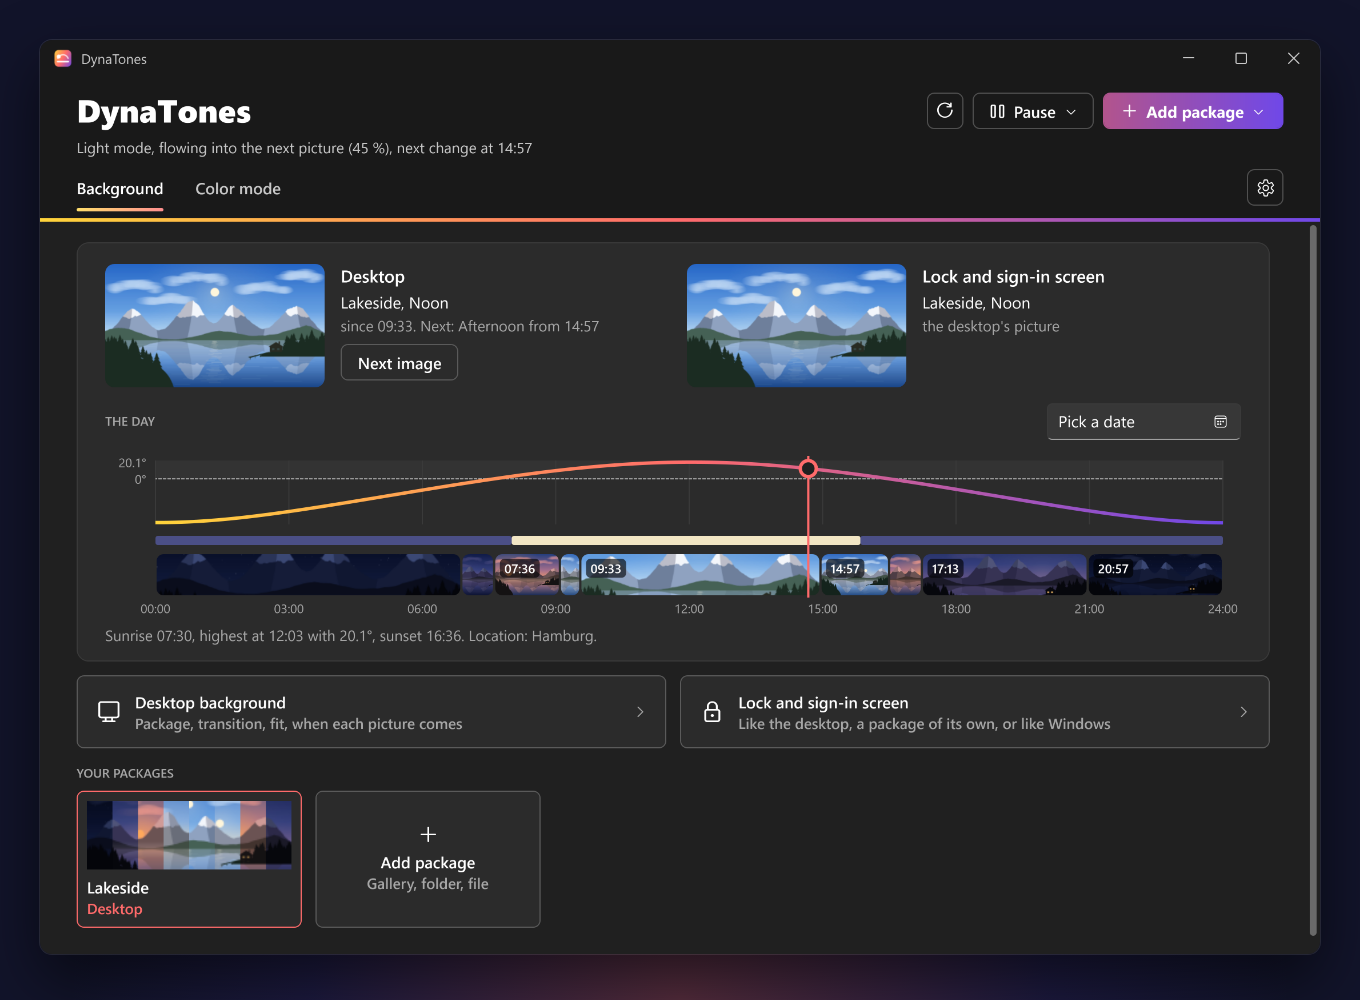
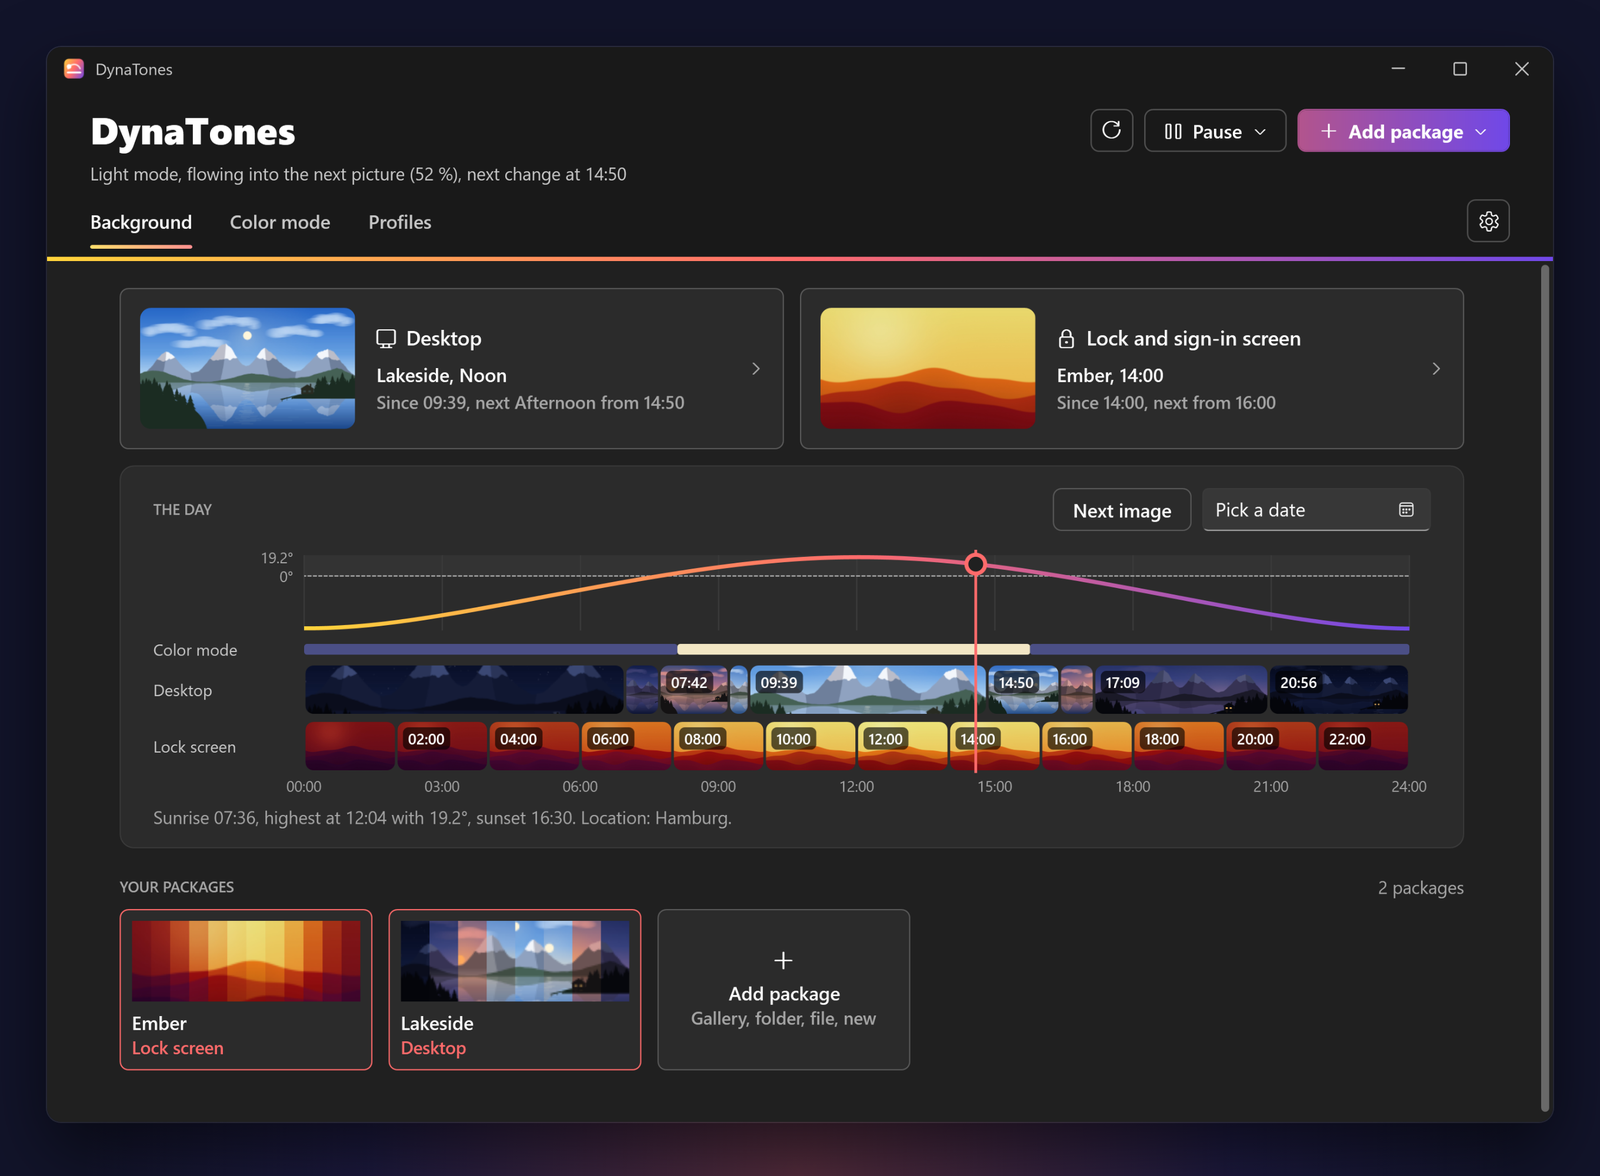
DynaTones 0.4: new pictures, captions and the film's length

diff --git a/de/dynatones/index.html b/de/dynatones/index.html
@@ -42,12 +42,12 @@
 <p style="margin: 0; font-size: 14px; color: #cfcfcf">Version 0.4.0, 57 MB. Kostenlos, Quellcode auf GitHub.</p>
 </div>
 <a class="ew-play" href="https://github.com/esteemworks/DynaTones#see-it-in-action" style="flex: 1 1 520px; min-width: 0; position: relative; display: block; border-radius: 10px; overflow: hidden; border: 1px solid rgba(255,255,255,.14); text-decoration: none">
-<img src="../../assets/img/dynatones-dark.png" alt="" width="1360" height="1000" style="display: block; width: 100%; height: auto">
+<img src="../../assets/img/dynatones-dark.png" alt="" width="1600" height="1176" style="display: block; width: 100%; height: auto">
 <span style="position: absolute; inset: 0; background: rgba(0,0,0,.42); display: flex; flex-direction: column; align-items: center; justify-content: center; gap: 14px">
 <span class="ew-play-dot" style="width: 76px; height: 76px; border-radius: 50%; background: linear-gradient(135deg, #ffd43b, #ff6b6b, #7048e8); display: flex; align-items: center; justify-content: center; transition: transform .15s">
 <svg aria-hidden="true" width="30" height="30" viewBox="0 0 24 24" fill="#ffffff"><path d="M8 5.5v13l11-6.5z"></path></svg>
 </span>
-<span style="font-size: 16px; font-weight: 600; color: #ffffff">Film ansehen, 1:31</span>
+<span style="font-size: 16px; font-weight: 600; color: #ffffff">Film ansehen, 1:45</span>
 </span>
 </a>
 </section>
@@ -87,11 +87,11 @@
 
 <section style="max-width: 1200px; margin: 0 auto; padding: 48px 24px 88px; display: grid; grid-template-columns: repeat(auto-fit, minmax(min(100%, 480px), 1fr)); gap: 24px">
 <figure style="margin: 0; display: flex; flex-direction: column; gap: 10px">
-<img src="../../assets/img/dynatones-light.png" alt="DynaTones, Heute im hellen Farbmodus" width="1360" height="1000" style="display: block; width: 100%; height: auto; border-radius: 10px; border: 1px solid var(--Line)">
-<figcaption style="font-size: 14px; color: var(--Text4)">Heute, im hellen Farbmodus</figcaption>
+<img src="../../assets/img/dynatones-light.png" alt="DynaTones, der Tab Hintergrund im hellen Farbmodus" width="1600" height="1176" style="display: block; width: 100%; height: auto; border-radius: 10px; border: 1px solid var(--Line)">
+<figcaption style="font-size: 14px; color: var(--Text4)">Hintergrund, im hellen Farbmodus</figcaption>
 </figure>
 <figure style="margin: 0; display: flex; flex-direction: column; gap: 10px">
-<img src="../../assets/img/dynatones-dark.png" alt="DynaTones, Heute im dunklen Farbmodus" width="1360" height="1000" style="display: block; width: 100%; height: auto; border-radius: 10px; border: 1px solid var(--Line)">
+<img src="../../assets/img/dynatones-dark.png" alt="DynaTones, der Tab Hintergrund im dunklen Farbmodus" width="1600" height="1176" style="display: block; width: 100%; height: auto; border-radius: 10px; border: 1px solid var(--Line)">
 <figcaption style="font-size: 14px; color: var(--Text4)">Derselbe Tag im dunklen Farbmodus</figcaption>
 </figure>
 </section>

diff --git a/dynatones/index.html b/dynatones/index.html
@@ -42,12 +42,12 @@
 <p style="margin: 0; font-size: 14px; color: #cfcfcf">Version 0.4.0, 57 MB. Free, source code on GitHub.</p>
 </div>
 <a class="ew-play" href="https://github.com/esteemworks/DynaTones#see-it-in-action" style="flex: 1 1 520px; min-width: 0; position: relative; display: block; border-radius: 10px; overflow: hidden; border: 1px solid rgba(255,255,255,.14); text-decoration: none">
-<img src="../assets/img/dynatones-dark.png" alt="" width="1360" height="1000" style="display: block; width: 100%; height: auto">
+<img src="../assets/img/dynatones-dark.png" alt="" width="1600" height="1176" style="display: block; width: 100%; height: auto">
 <span style="position: absolute; inset: 0; background: rgba(0,0,0,.42); display: flex; flex-direction: column; align-items: center; justify-content: center; gap: 14px">
 <span class="ew-play-dot" style="width: 76px; height: 76px; border-radius: 50%; background: linear-gradient(135deg, #ffd43b, #ff6b6b, #7048e8); display: flex; align-items: center; justify-content: center; transition: transform .15s">
 <svg aria-hidden="true" width="30" height="30" viewBox="0 0 24 24" fill="#ffffff"><path d="M8 5.5v13l11-6.5z"></path></svg>
 </span>
-<span style="font-size: 16px; font-weight: 600; color: #ffffff">Watch the film, 1:31</span>
+<span style="font-size: 16px; font-weight: 600; color: #ffffff">Watch the film, 1:45</span>
 </span>
 </a>
 </section>
@@ -87,11 +87,11 @@
 
 <section style="max-width: 1200px; margin: 0 auto; padding: 48px 24px 88px; display: grid; grid-template-columns: repeat(auto-fit, minmax(min(100%, 480px), 1fr)); gap: 24px">
 <figure style="margin: 0; display: flex; flex-direction: column; gap: 10px">
-<img src="../assets/img/dynatones-light.png" alt="DynaTones, Today in light color mode" width="1360" height="1000" style="display: block; width: 100%; height: auto; border-radius: 10px; border: 1px solid var(--Line)">
-<figcaption style="font-size: 14px; color: var(--Text4)">Today, in light color mode</figcaption>
+<img src="../assets/img/dynatones-light.png" alt="DynaTones, the Background tab in light color mode" width="1600" height="1176" style="display: block; width: 100%; height: auto; border-radius: 10px; border: 1px solid var(--Line)">
+<figcaption style="font-size: 14px; color: var(--Text4)">Background, in light color mode</figcaption>
 </figure>
 <figure style="margin: 0; display: flex; flex-direction: column; gap: 10px">
-<img src="../assets/img/dynatones-dark.png" alt="DynaTones, Today in dark color mode" width="1360" height="1000" style="display: block; width: 100%; height: auto; border-radius: 10px; border: 1px solid var(--Line)">
+<img src="../assets/img/dynatones-dark.png" alt="DynaTones, the Background tab in dark color mode" width="1600" height="1176" style="display: block; width: 100%; height: auto; border-radius: 10px; border: 1px solid var(--Line)">
 <figcaption style="font-size: 14px; color: var(--Text4)">The same day, in dark color mode</figcaption>
 </figure>
 </section>

diff --git a/de/index.html b/de/index.html
@@ -37,7 +37,7 @@
 </div>
 </div>
 <div style="flex: 1 1 520px; min-width: 0; position: relative; padding-bottom: 40px">
-<img src="../assets/img/dynatones-dark.png" alt="DynaTones, die Tagesansicht mit dem Bild von jetzt und dem nächsten" width="1360" height="1000" style="display: block; width: 80%; height: auto; margin-left: auto; border-radius: 10px; border: 1px solid rgba(255,255,255,.14)">
+<img src="../assets/img/dynatones-dark.png" alt="DynaTones, Desktop und Sperrbildschirm jetzt und die Sonne über den Tag" width="1600" height="1176" style="display: block; width: 80%; height: auto; margin-left: auto; border-radius: 10px; border: 1px solid rgba(255,255,255,.14)">
 <img src="../assets/img/startqueue-dark.png" alt="StartQueue, die Startreihenfolge mit Profilen" width="1360" height="900" style="position: absolute; left: 0; bottom: 0; width: 66%; height: auto; border-radius: 10px; border: 1px solid rgba(255,255,255,.14)">
 </div>
 </section>
@@ -103,7 +103,7 @@
 </div>
 </div>
 <div style="padding: 28px 28px 0">
-<picture><source media="(prefers-color-scheme: dark)" srcset="../assets/img/dynatones-dark.png"><img src="../assets/img/dynatones-light.png" alt="DynaTones, die Tagesansicht mit dem Bild von jetzt und dem nächsten" width="1360" height="1000" style="display: block; width: 100%; height: auto; border-radius: 8px 8px 0 0; border: 1px solid var(--Line); border-bottom: 0"></picture>
+<picture><source media="(prefers-color-scheme: dark)" srcset="../assets/img/dynatones-dark.png"><img src="../assets/img/dynatones-light.png" alt="DynaTones, Desktop und Sperrbildschirm jetzt und die Sonne über den Tag" width="1600" height="1176" style="display: block; width: 100%; height: auto; border-radius: 8px 8px 0 0; border: 1px solid var(--Line); border-bottom: 0"></picture>
 </div>
 </article>
 

diff --git a/index.html b/index.html
@@ -37,7 +37,7 @@
 </div>
 </div>
 <div style="flex: 1 1 520px; min-width: 0; position: relative; padding-bottom: 40px">
-<img src="assets/img/dynatones-dark.png" alt="DynaTones, the day view with the images of now and next" width="1360" height="1000" style="display: block; width: 80%; height: auto; margin-left: auto; border-radius: 10px; border: 1px solid rgba(255,255,255,.14)">
+<img src="assets/img/dynatones-dark.png" alt="DynaTones, the desktop and lock screen now and the sun over the day" width="1600" height="1176" style="display: block; width: 80%; height: auto; margin-left: auto; border-radius: 10px; border: 1px solid rgba(255,255,255,.14)">
 <img src="assets/img/startqueue-dark.png" alt="StartQueue, the startup order with profiles" width="1360" height="900" style="position: absolute; left: 0; bottom: 0; width: 66%; height: auto; border-radius: 10px; border: 1px solid rgba(255,255,255,.14)">
 </div>
 </section>
@@ -103,7 +103,7 @@
 </div>
 </div>
 <div style="padding: 28px 28px 0">
-<picture><source media="(prefers-color-scheme: dark)" srcset="assets/img/dynatones-dark.png"><img src="assets/img/dynatones-light.png" alt="DynaTones, the day view with the images of now and next" width="1360" height="1000" style="display: block; width: 100%; height: auto; border-radius: 8px 8px 0 0; border: 1px solid var(--Line); border-bottom: 0"></picture>
+<picture><source media="(prefers-color-scheme: dark)" srcset="assets/img/dynatones-dark.png"><img src="assets/img/dynatones-light.png" alt="DynaTones, the desktop and lock screen now and the sun over the day" width="1600" height="1176" style="display: block; width: 100%; height: auto; border-radius: 8px 8px 0 0; border: 1px solid var(--Line); border-bottom: 0"></picture>
 </div>
 </article>
 
